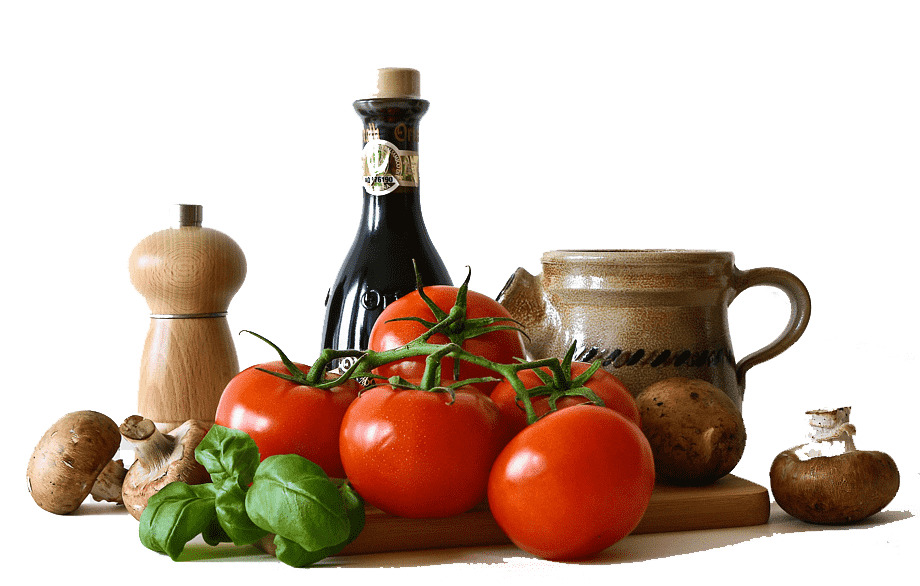
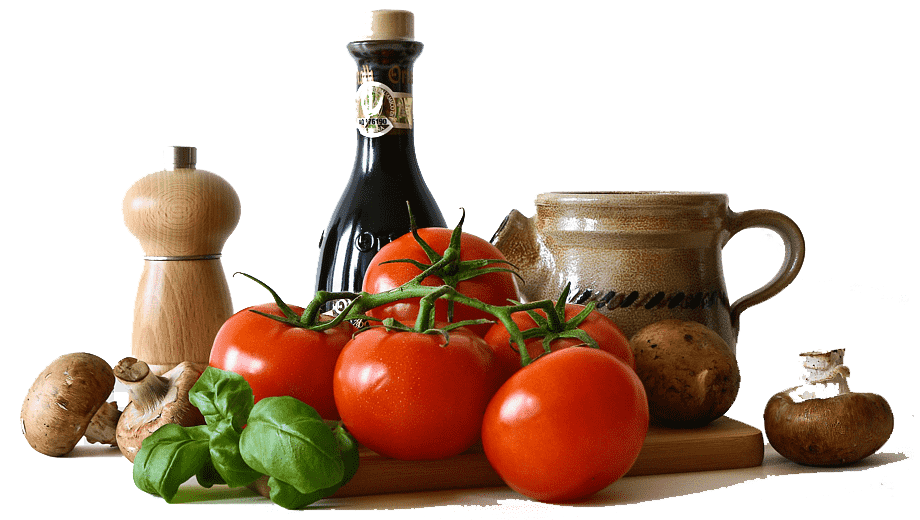
Added scroll-to-top button. Fixed layout in home page.

Changed region(s): [[0.0, 0.0, 1.0, 0.9846]]

diff --git a/layouts/CustomLayout.vue b/layouts/CustomLayout.vue
@@ -60,6 +60,21 @@
     >
       <ShowMeal :meal="mealToShow" />
     </v-dialog>
+    <v-fab-transition>
+      <v-btn
+        v-show="fab"
+        v-scroll="onScroll"
+        fab
+        dark
+        fixed
+        bottom
+        right
+        color="amber darken-4"
+        @click="toTop"
+      >
+        <v-icon>mdi-chevron-up</v-icon>
+      </v-btn>
+    </v-fab-transition>
   </v-app>
 </template>
 
@@ -76,6 +91,11 @@ export default {
     NavigationLinks,
     NavigationLinksDialog,
     ShowMeal
+  },
+  data () {
+    return {
+      fab: false
+    }
   },
   computed: {
     ...mapState([
@@ -111,7 +131,15 @@ export default {
       'toggleMobileSearchBar',
       'toggleDrawer',
       'resetMealToShow'
-    ])
+    ]),
+    onScroll (e) {
+      if (typeof window === 'undefined') { return }
+      const top = window.pageYOffset || e.target.scrollTop || 0
+      this.fab = top > 20
+    },
+    toTop () {
+      this.$vuetify.goTo(0)
+    }
   }
 }
 </script>

diff --git a/components/BrowseByButtons.vue b/components/BrowseByButtons.vue
@@ -3,11 +3,12 @@
     <NuxtLink to="/categories">
       <v-btn
         class="mr-md-3 mb-3 mb-md-0 px-md-15"
-        color="#009135"
+        color="#F7761D"
         dark
         x-large
         :block="!$vuetify.breakpoint.mdAndUp"
         width="320"
+        outlined
       >
         Browse By Category
       </v-btn>
@@ -16,10 +17,11 @@
       <v-btn
         class="px-md-15"
         dark
-        color="#009135"
+        color="#F7761D"
         x-large
         :block="!$vuetify.breakpoint.mdAndUp"
         width="320"
+        outlined
       >
         Browse By Cuisine
       </v-btn>

diff --git a/pages/index.vue b/pages/index.vue
@@ -9,12 +9,12 @@
         md="10"
       >
         <div
-          class="text-center px-3"
+          class="text-center"
         >
           <v-img
-            class="mx-auto mb-6"
-            width="400"
-            height="254.78px"
+            class="mx-auto mb-3 mb-md-6"
+            height="230"
+            contain
             src="/images/ingredients.png"
             lazy-src="/images/ingredients.png"
           />
